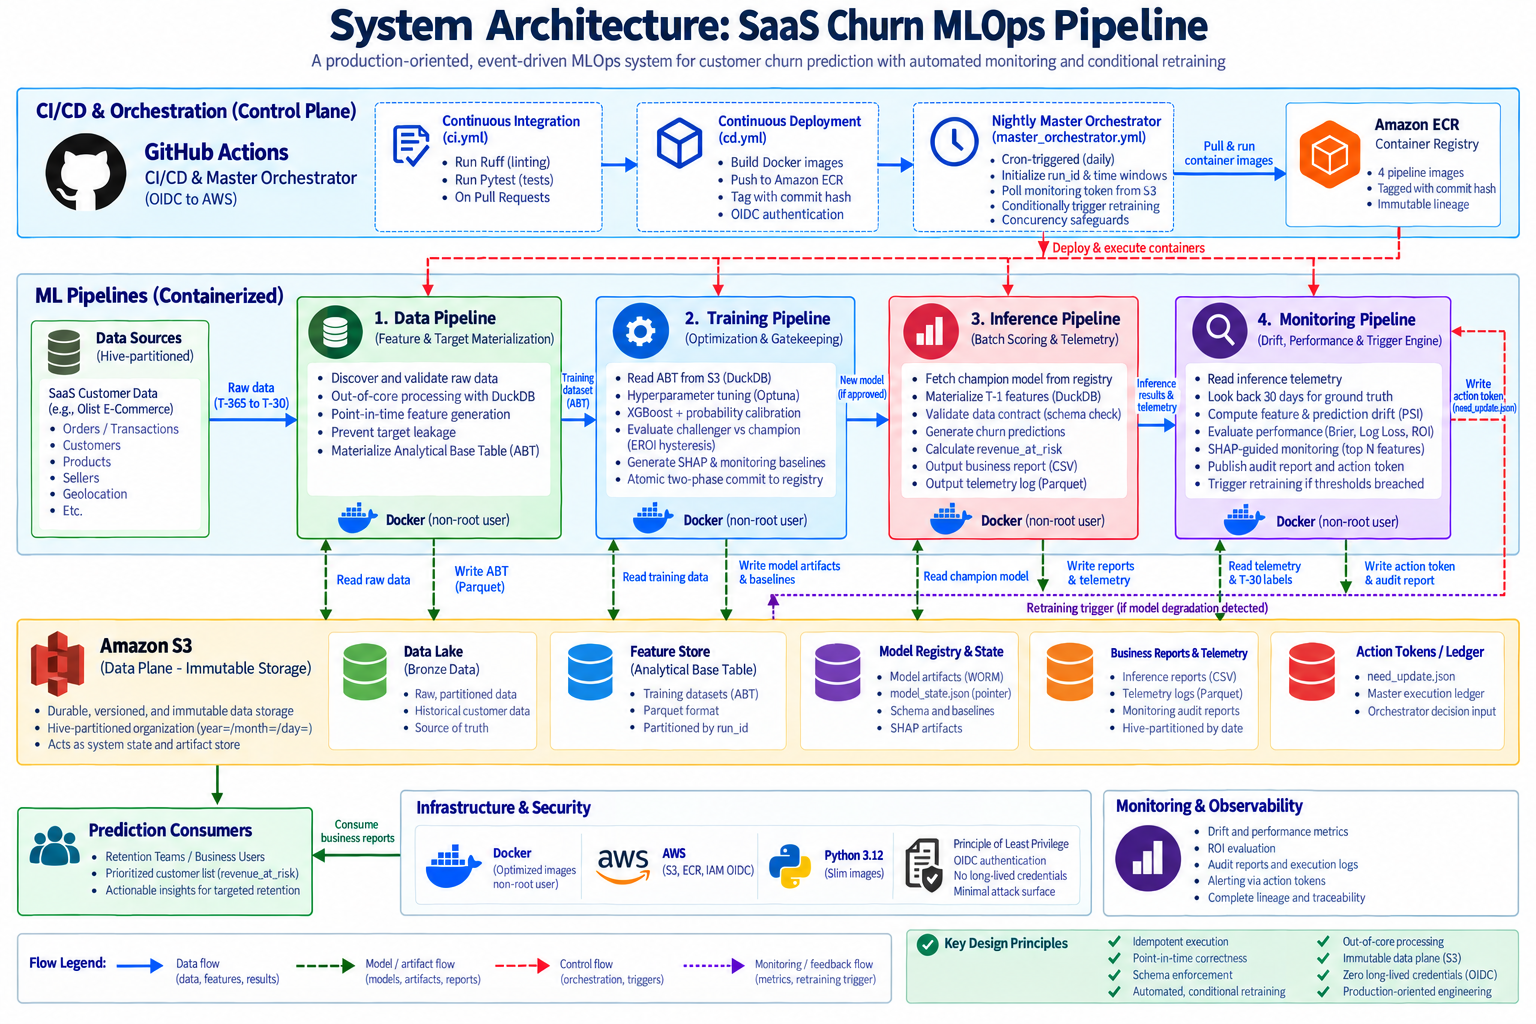
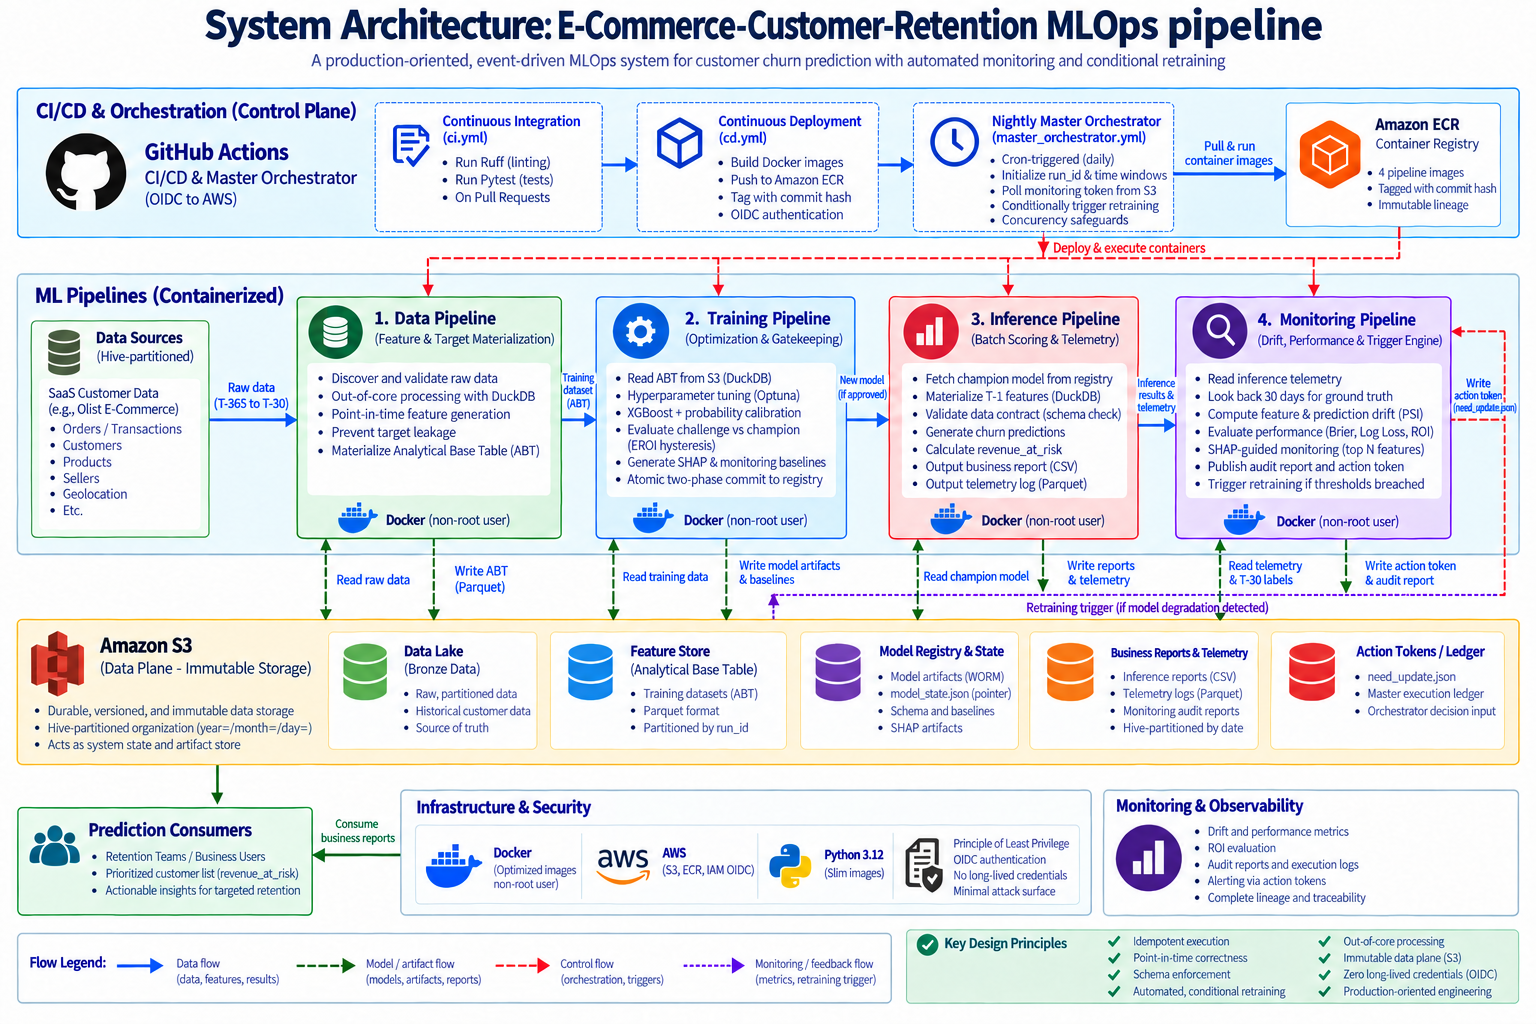
updatd system architecture [skip ci]

diff --git a/README.md b/README.md
@@ -1,4 +1,4 @@
-# Enterprise SaaS Customer Churn Risk ML System
+# E-Commerce-Customer-Retention ML System
 
 ## Executive Overview & Business Value
 
